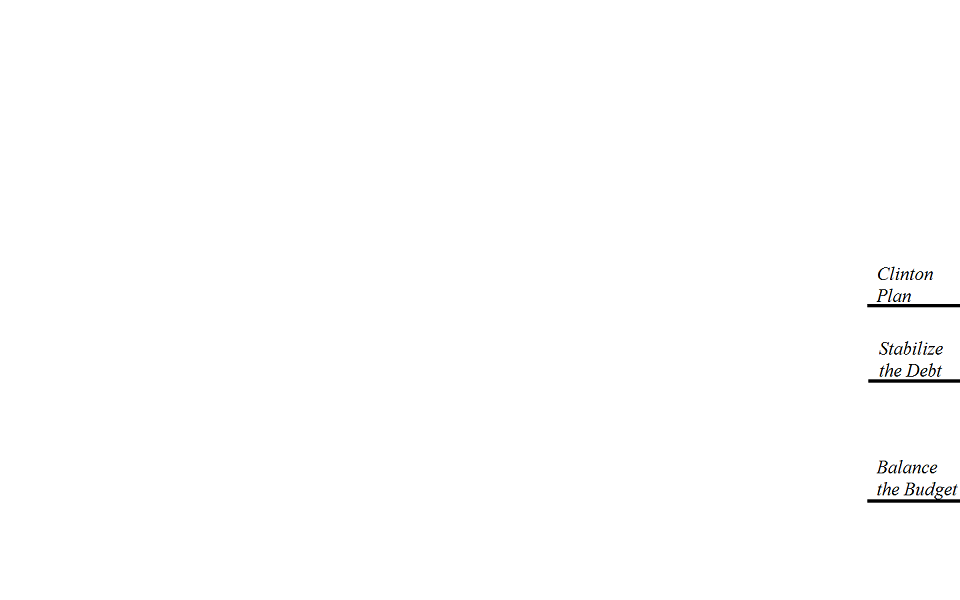
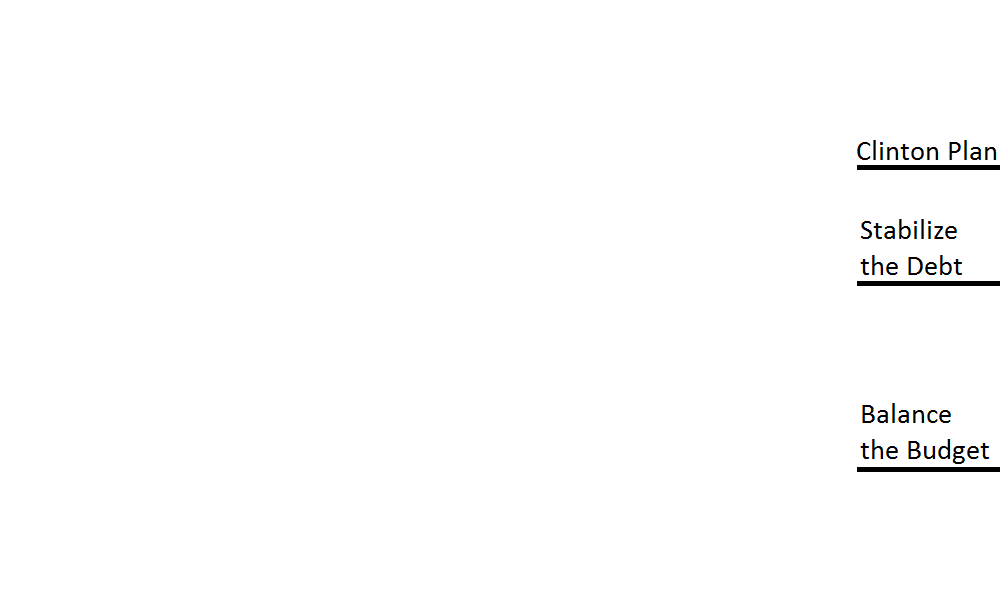
restyled tool, updated results

Changed region(s): [[0.8438, 0.57, 1.0, 0.84], [0.8438, 0.36, 1.0, 0.54], [0.8438, 0.24, 1.0, 0.3]]

diff --git a/dev/debtcalc.js b/dev/debtcalc.js
@@ -293,7 +293,10 @@ function slideUpdateFunc(src, tgt, func, otherfunc) {
 	    setSliderVal(tgt,otherval);
 	    updating = false;
 	}
-	$('#'+src+'_in').val(val.toFixed(2));
+	$('#'+src+'_slider').find('.ui-slider-handle').html(
+	    (val + (src == 'tax' ? g_base_toptax : 0)).toFixed()
+	);
+	$('#'+src+'_in').val(val.toFixed());
 	mainCalculate();
     } catch(ex) {
 	console.log(ex);
@@ -312,7 +315,7 @@ function textUpdateFunc(src, min, max) {
 	    val = min;
 	else if ($(src).val() > max)
 	    val = max;
-	$('#'+src+'_in').val(val.toFixed(2));
+	$('#'+src+'_in').val(val.toFixed());
 	setSliderVal(src,val);
 	mainCalculate();
     } catch(ex) {
@@ -350,6 +353,8 @@ function calcRev(taxup, year) {
 function drawChart(spendpct, taxup) {
     var tot_dspend = 0;
     var tot_drev   = 0;
+
+    // prepare series chart
     var seriesData = new google.visualization.DataTable();
     seriesData.addColumn('date', 'Year');
     seriesData.addColumn('number', 'My Plan');
@@ -387,7 +392,7 @@ function drawChart(spendpct, taxup) {
 	chartArea: {
 	    left: '10%',
 	    top: '5%',
-	    width: '80%',
+	    width: '75%',
 	    height: '85%'
 	},
 	vAxis: {
@@ -396,10 +401,12 @@ function drawChart(spendpct, taxup) {
 	    },
 	    viewWindow: {
 		min: 0.5,
-		max: 1.3
+		max: (g_cand_name == 'Trump' ? 1.3 : 1)
 	    },
 	    format: 'percent',
-	    ticks: [0.5,0.6,0.7,0.8,0.9,1,1.1,1.2,1.3]
+	    ticks: (g_cand_name == 'Trump'
+		    ? [0.5,0.6,0.7,0.8,0.9,1,1.1,1.2,1.3]
+		    : [0.5,0.55,0.6,0.65,0.7,0.75,0.8,0.85,0.9,0.95,1])
 	},
 	hAxis: {
 	    textStyle: {
@@ -439,20 +446,44 @@ function drawChart(spendpct, taxup) {
 	containerId: 'series_area'
     });
 
+    // prepare pie chart
+    if (tot_drev-tot_dspend == 0) {
+	tot_dspend = -.1;
+	tot_drev = .1;
+    }
+    var pieData = new google.visualization.DataTable();
+    pieData.addColumn('string','Source');
+    pieData.addColumn('number','Total');
+    pieData.addRows([
+	['Spending Cuts',-tot_dspend],
+	['Tax Increases',tot_drev]
+    ]);
+    var pieFormatter = new google.visualization.NumberFormat({
+	pattern: '$##,### billion'
+    });
+    pieFormatter.format(pieData,1);
+    var pieOpts = {
+	chartArea: {
+	    left: '5%',
+	    top: '5%',
+	    width: '60%',
+	    height: '90%'
+	},
+	legend: 'none',
+	backgroundColor: {
+	    fill: 'transparent'
+	},
+	colors: ['red','blue'],
+	fontSize: 12
+    };
+    var pieChart = new google.visualization.ChartWrapper({
+	chartType: 'PieChart',
+	dataTable: pieData,
+	options: pieOpts,
+	containerId: 'pie_area'
+    });
+    
     // draw to screen
     seriesChart.draw();
-
-    // update text
-    var spend_cut  = 100*(1-((g_cand_totspend + tot_dspend)/g_curr_totspend));
-    var rev_inc = 100*(((g_cand_totrev + tot_drev)/g_curr_totrev)-1);
-    $('#spend_cut').html( spend_cut.toFixed() + '%' );
-    $('#rev_inc').html( rev_inc.toFixed() + '%' );
-    var spend_raw = g_curr_totspend - (g_cand_totspend + tot_dspend);
-    spend_raw = spend_raw > 0 ? spend_raw : 0;
-    var rev_raw = (g_cand_totrev + tot_drev) - g_curr_totrev;
-    rev_raw = rev_raw > 0 ? rev_raw : 0;
-    tot_reduc = spend_raw + rev_raw;
-    tot_reduc = tot_reduc > 0 ? tot_reduc : 1;
-    $('#spend_part').html( (100*(spend_raw/tot_reduc)).toFixed() + '%' );
-    $('#rev_part').html( (100*(rev_raw/tot_reduc)).toFixed() + '%' );
+    pieChart.draw();
 }

diff --git a/dev/debtcalc.css b/dev/debtcalc.css
@@ -1,35 +1,48 @@
 body {
+    font-family: 'PT Serif', serif;
+    font-size: 12pt;
+    font-weight: 400;
     margin: auto;
-}
-
-#main_content {
-    margin: auto;
-    width: 760px;
-    height: 630px;
+    width: 800px;
+    height: 660px;
     padding: 10px;
-    background-color: #00548A;
+    background-color: #131543;
+    border: 1px solid white;
 }
 
-#main_content h1,h2,h3,h4,h5 {
+h1,h2,h3,h4,h5 {
     margin: 0px;
     padding: 0px;
-    font-style: italic;
+    font-weight: 700;
     text-align: center;
+    color: #000000;
 }
 
-#main_content h1 {
+h1 {
     color: white;
+    font-size: 25pt;
     padding: 5px 0px;
 }
 
-#main_content p {
-    margin: 0px;
-    padding: 0px;
+h2 {
+    font-size: 18pt;
+}
+
+h3 {
+    font-size: 14pt;
+}
+
+h4 {
+    font-size: 12pt;
+}
+
+h5 {
+    font-size: 10pt;
 }
 
 #left_panel {
     float: left;
-    width: 260px;
+    width: 280px;
     padding: 5px;
     background-color: white;
     text-align: left;
@@ -55,11 +68,23 @@ label .rightJustified {
     position: relative;
     float: left;
     text-align: center;
-    width: 120px;
+    width: 130px;
     padding: 5px 2px;
     background-color: #e0e0e0;
     border-style: solid;
     border-color: white;
+}
+
+.inputField {
+    float: none !important;
+    width: 35px;
+    text-align: right;
+    padding-right: 5px;
+}
+
+.sliderBound {
+    margin: 0px;
+    padding: 0px;
 }
 
 .selector {
@@ -75,13 +100,20 @@ label .rightJustified {
 }
 
 .ui-slider .ui-slider-handle {
-    background: #00548A;
+    background: #047390;
+    color: #ffffff;
+    font-size: 12pt;
+    text-align: center;
+    width: 40px;
+    height: 22px;
+    line-height: 22px;
+    margin-left: -11px;
+    font-family: 'PT Serif', serif;
 }
 
-.inputField {
-    float: none !important;
-    width: 35px;
-    text-align: right;
+.sliderLabel {
+    font-size: 8pt;
+    font-weight: 700;
 }
 
 #reset_area {
@@ -92,58 +124,37 @@ label .rightJustified {
 #right_panel {
     margin-left: 10px;
     float: left;
-    text-align: right;
+    background: #d0d0d0;
 }
 
-#right_panel h2 {
-    margin-top: 10px;
-    text-align: center;
-}
-
-#chart_area {
+.chartContainer {
     background-color: white;
+    margin-bottom: 10px;
+}
+
+.chartBackground {
+    background-size: 100% 100% !important;
+    background-repeat: no-repeat !important;
 }
 
 #trump_background {
     background: url('t-chart-image.png');
-    background-size: 100% 100%;
-    background-repeat: no-repeat;
 }
 
 #clinton_background {
     background: url('c-chart-image.png');
-    background-size: 100% 100%;
-    background-repeat: no-repeat;
+}
+
+#pie_background {
+    background: url('p-chart-image.png');
 }
 
 #series_area {
     height: 300px;
-    width: 480px;
+    width: 500px;
 }
 
-#chart_caption {
-    font-size: 11pt;
-    font-style: italic;
-    text-align: left;
-}
-
-#results_area {
-    padding: 10px 25px;
-    margin: 25px 40px;
-    background-color: white;
-}
-
-#results_area p {
-    text-align: left;
-}
-
-#results_area .score {
-    font-weight: bold;
-    float: right;
-}
-
-#results_area #tax_up {
-    display: inline-block;
-    width: 28px;
-    text-align: right;
+#pie_area {
+    height: 222px;
+    width: 500px;
 }

diff --git a/dev/trumpdata.js b/dev/trumpdata.js
@@ -37,12 +37,12 @@ var g_cand_totrev   = 31598.095;
 var g_cand_totspend = 44915.862;
 
 /* slider ranges */
-var g_scale_factor     =    2;
+var g_scale_factor     =    10;
 var g_spending_min     =    0 * g_scale_factor;
 var g_spending_max     =  100 * g_scale_factor;
 var g_spending_default =    0 * g_scale_factor;
 var g_tax_min          =    0 * g_scale_factor;
-var g_tax_max          =   45 * g_scale_factor;
+var g_tax_max          =   40 * g_scale_factor;
 var g_tax_default      =    0 * g_scale_factor;
 
 /* fixed target bounds */

diff --git a/dev/clintondata.js b/dev/clintondata.js
@@ -40,7 +40,7 @@ var g_cand_totrev   = 43543.813;
 var g_cand_totspend = 47181.331;
 
 /* slider ranges */
-var g_scale_factor     =    2;
+var g_scale_factor     =    10;
 var g_spending_min     =    0 * g_scale_factor;
 var g_spending_max     =  100 * g_scale_factor;
 var g_spending_default =    0 * g_scale_factor;
